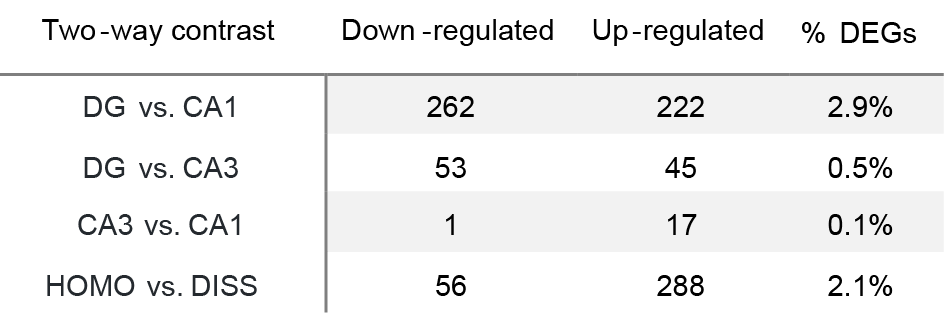
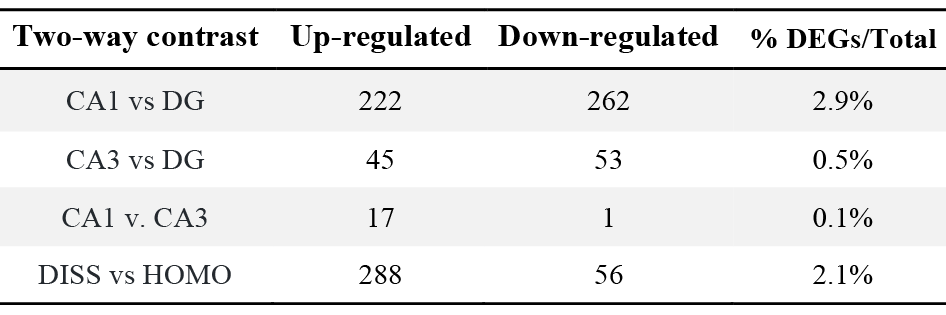
rearranged table

diff --git a/README.md b/README.md
@@ -27,12 +27,12 @@ The following descriptions are not ready for publication, rather they are conver
 
 **Figure 1.** General expression patterns show no major pattern of gene expression alteration. 1A. Experimental design. 1B. Volcano plot showing an exploratory(?) analysis of regional differences, for comparison to published literature. 1C. Volcano plot showing a weak but asymmetric response of gene expression to dissociation. 1D. PCA showing that no major pattern of an effect of dissociation, but also showing that regions are as clearly separated as one would expect given the literature. 
 
-| Two-way contrast | Down-regulated | Up-regulated | % DEGs |
+| Two-way contrast | Up-regulated |Down-regulated |  % DEGs |
 |:-------------:|:-------------:|:-------------:|:-------------:|
-| DG vs. CA1 | 262 | 222 | 2.9% |
-| DG vs. CA3 | 53 | 45 | 0.5% |
-| CA3 vs. CA1 | 1 | 17 | 0.1% | 
-| HOMO vs. DISS | 56 | 288 | 2.1% |
+| CA1 vs. CA1 | 222 | 262 | 2.9% |
+| CA3 vs. DG | 45 | 53 | 0.5% |
+| CA1 vs. CA3 | 17 | 1 | 0.1% | 
+| DISS vs. HOMO | 288 | 56 | 2.1% |
 
 **Table 1.** Number of differentially expressed genes by 2-way contrast. "Down-regulated" means that expression is higher in the term on the far left of column 1. "Up-regulated" means that expression is higher in the term on the right of column 1. This shows that there is more variation due to subfield than treatment. 
 
